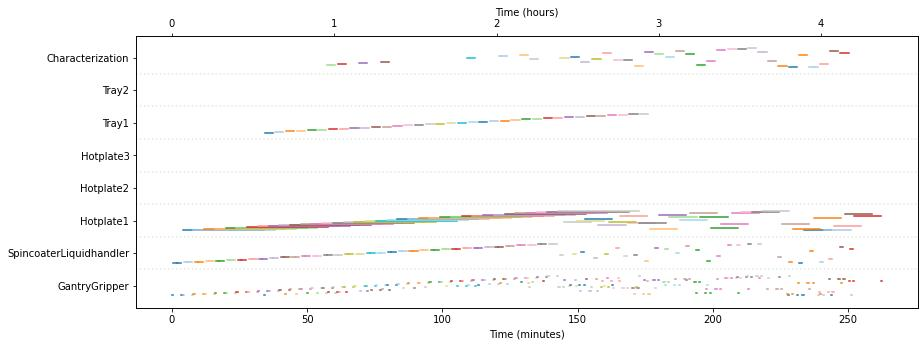
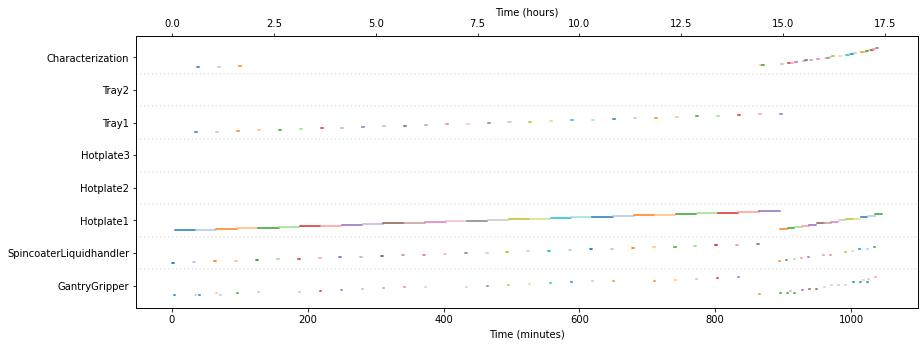
working for hotplate scheduling

diff --git a/frgpascal/experimentaldesign/helpers.py b/frgpascal/experimentaldesign/helpers.py
@@ -16,10 +16,12 @@ from copy import deepcopy
 import uuid
 import matplotlib.pyplot as plt
 import pandas as pd
+from frgpascal.hardware.hotplate import HotPlate
+from frgpascal.hardware.sampletray import SampleTray
 from frgpascal.system import generate_workers, build
-from frgpascal.workers import Worker_Hotplate
+from frgpascal.workers import Worker_Hotplate, Worker_Storage
 from frgpascal.experimentaldesign.protocolwriter import generate_ot2_protocol
-from typing import Tuple
+from typing import Literal, Tuple
 import mixsol as mx
 from mixsol.mix import _solutions_to_matrix
 import random
@@ -539,7 +541,12 @@ class PASCALPlanner:
         tip_racks: list,
         solution_storage: list,
         stock_solutions: list,
+        sample_width: Literal[10, 17] = 10,
     ):
+        self.sample_width = sample_width
+        self._set_hardware_capacities(
+            worker_list=[]
+        )  # run to confirm we support this sample width.
         self.name = name
         self.description = description
         self.operator = operator
@@ -553,7 +560,54 @@ class PASCALPlanner:
         self.samples, self.requires_1000ul_tips = self._process_samples(
             samples=samples, sample_trays=sample_trays
         )
+
         self.hotplate_settings = assign_hotplates(self.samples)
+
+    def _set_hardware_capacities(self, worker_list: list):
+        """The capacities of the hotplate and sample tray change depending on the sample size. This affects job scheduling. We set the capacities here.
+
+        Args:
+            sample_size (int): Width (mm) of the sample substrate
+
+        Raises:
+            ValueError: Unsupported sample size
+        """
+        hardware_versions_per_sample_size = {
+            10: {
+                "hotplate": "hotplate_frg4inch",
+                "tray": "storage_v3",
+            },
+            17: {
+                "hotplate": "hotplate_frg4inch_17mmsample",
+                "tray": "storage_17mm_v1",
+            },
+        }
+
+        if self.sample_width not in hardware_versions_per_sample_size:
+            raise ValueError(
+                f"Sample size ({self.sample_width} mm) not supported. Choose from {list(hardware_versions_per_sample_size.keys())}"
+            )
+
+        hotplate_capacity = HotPlate(
+            name="dummy",
+            version=hardware_versions_per_sample_size[self.sample_width]["hotplate"],
+            gantry=1,
+            gripper=1,
+            p0=[0, 0, 0],
+        ).capacity
+        tray_capacity = SampleTray(
+            name="dummy",
+            version=hardware_versions_per_sample_size[self.sample_width]["tray"],
+            gantry=1,
+            gripper=1,
+            p0=[0, 0, 0],
+        ).capacity
+
+        for worker in worker_list:
+            if isinstance(worker, Worker_Hotplate):
+                worker.capacity = hotplate_capacity
+            elif isinstance(worker, Worker_Storage):
+                worker.capacity = tray_capacity
 
     # check to see if you have 300uL or 1000uL tip racks
     def _parse_tipracks(self, tip_racks: list):
@@ -644,6 +698,8 @@ class PASCALPlanner:
         self, shuffle: bool = True, prioritize_first_spincoat: bool = False, **kwargs
     ):
         self.system: System = build()
+        self._set_hardware_capacities(self.system.workers)
+
         if shuffle:
             sample_it = iter(random.sample(self.samples, len(self.samples)))
         else:
